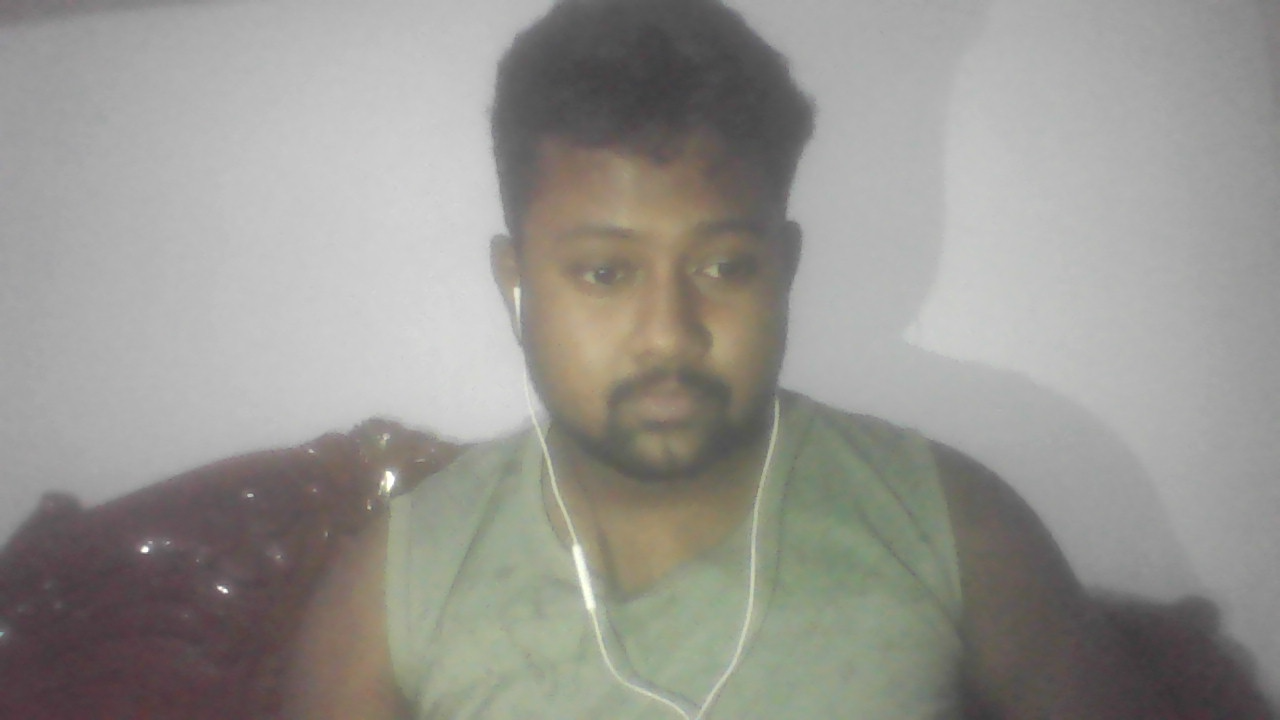
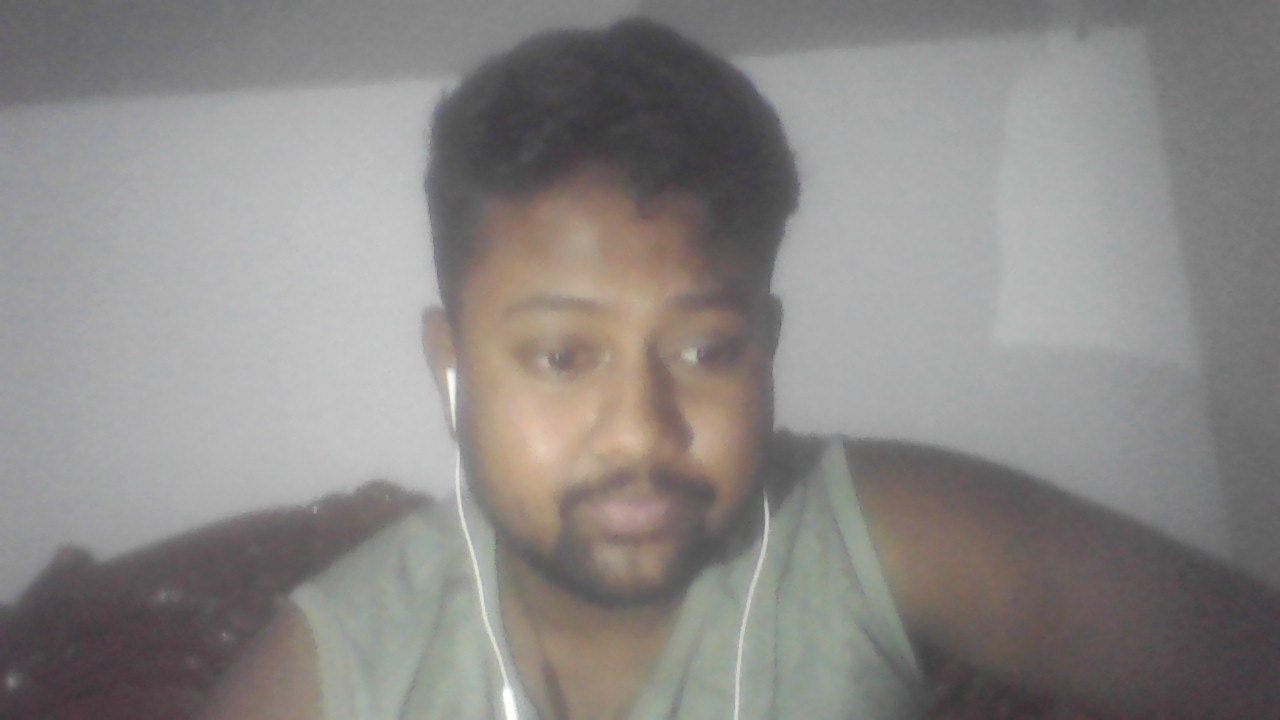
fix: small bug

diff --git a/src/Commands.py b/src/Commands.py
@@ -11,6 +11,7 @@ COMMANDS = {
     'scan face': 'scan_face',
     'night vision': 'night_vision',
     'night' : 'night_vision',
+    'light' : 'night_vision',
     'start recording': 'start_recording',
     'stop recording': 'stop_recording',
     'take screenshot': 'take_screenshot',

diff --git a/src/main.py b/src/main.py
@@ -13,3 +13,4 @@ voice_thread.start()
 start_camera(command_queue)
 
 voice_thread.join()
+